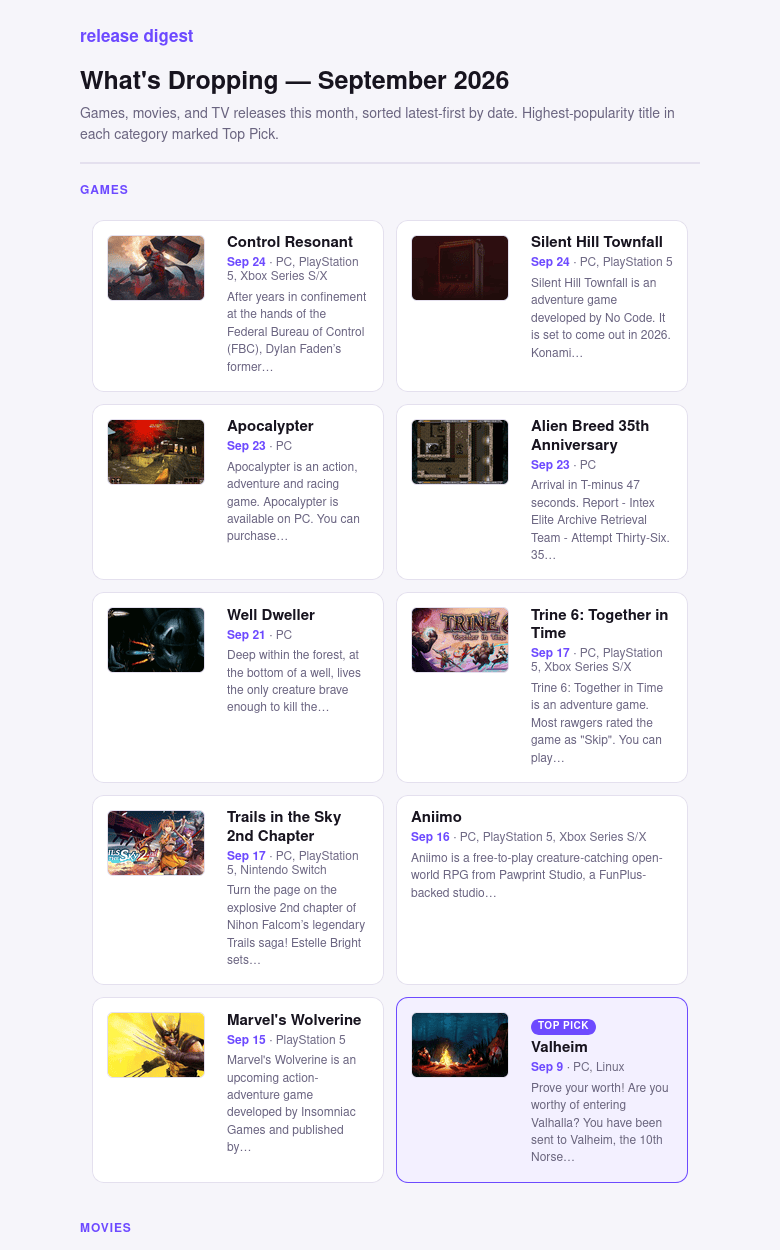
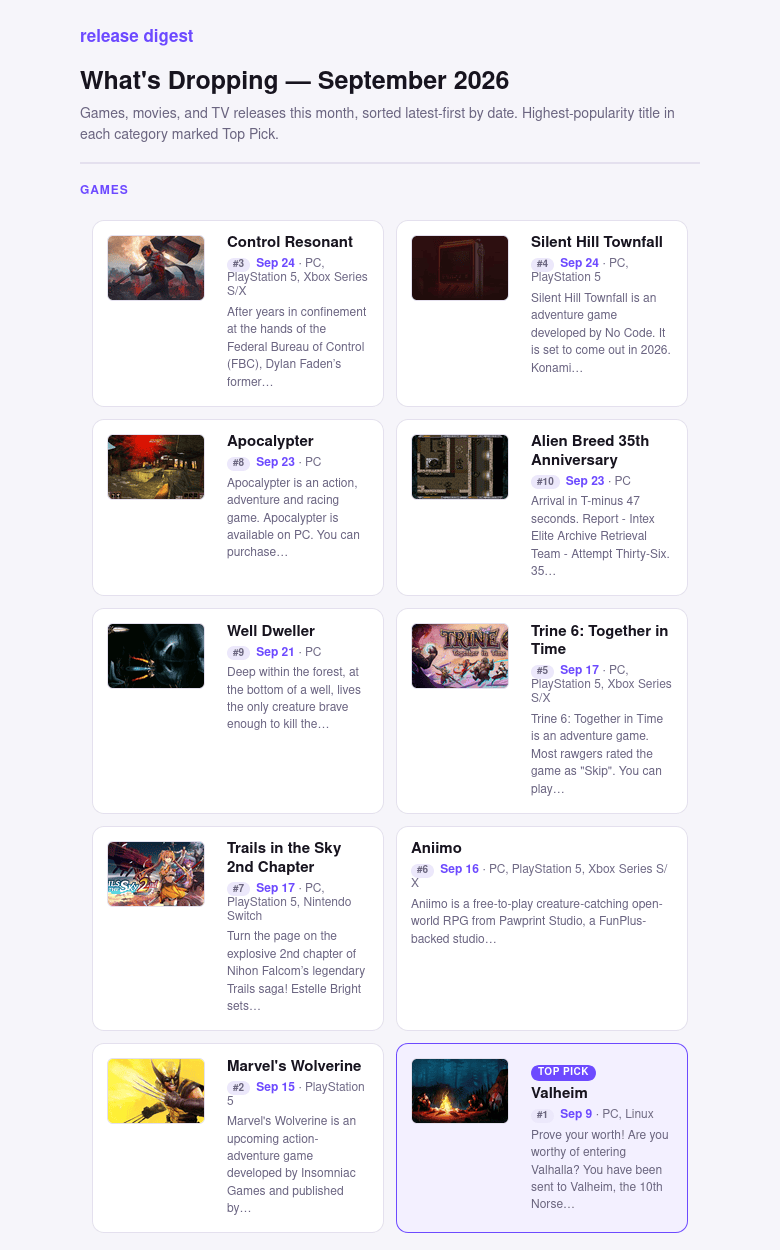
Badge each card with its popularity rank
Cards are ordered by release date, which makes it hard to see which of a
month's ten titles are actually notable. Each now carries its rank within its
category, so the Top Pick is #1 and the rest are placed relative to it.

Shown as a rank rather than the underlying figure on purpose: RAWG's `added` is
a count of users who added the game, TMDB's `popularity` an opaque float that
changes daily. Printing both would invite a comparison that means nothing — a
game at 4,981 beside a film at 230 is not twenty times more popular. The rank is
comparable across sections and needs no explaining.

Badge contrast is 4.67:1 on its tint and 5.60:1 if a client strips the
background, so it degrades upward rather than disappearing.

diff --git a/render_digest.py b/render_digest.py
@@ -114,10 +114,22 @@ def card_html(item: dict, category: str, cid_map: dict[str, str] | None = None) 
         if url else title
     )
 
+    # Popularity as a within-category rank, not a raw figure: RAWG's `added` is
+    # a user count and TMDB's `popularity` an opaque float, so the underlying
+    # numbers aren't comparable between sections. Cards are ordered by date, so
+    # the rank is what surfaces the notable ones.
+    rank_badge = ""
+    if item.get("popularity_rank"):
+        rank_badge = (
+            f'<span style="display:inline-block;background:#ece8fa;color:{INK_DIM};'
+            f'font-size:10px;font-weight:700;padding:1px 6px;border-radius:999px;'
+            f'font-family:{FONT};margin-right:6px;">#{item["popularity_rank"]}</span>'
+        )
+
     text_cell = f"""<td valign="top" style="padding:0;">
       {pill}<div style="font-weight:600;font-size:15px;line-height:1.25;color:{INK};font-family:{FONT};">{linked_title}</div>
-      <div style="font-size:12px;color:{INK_FAINT};font-family:{FONT};margin-top:3px;">
-        <span style="color:{ACCENT};font-weight:600;">{date}</span>{meta_extra}
+      <div style="font-size:12px;color:{INK_FAINT};font-family:{FONT};margin-top:4px;">
+        {rank_badge}<span style="color:{ACCENT};font-weight:600;">{date}</span>{meta_extra}
       </div>
       {blurb}
     </td>"""

diff --git a/fetch_releases.py b/fetch_releases.py
@@ -334,6 +334,14 @@ def rank(items: list[dict], cap: int = 10) -> list[dict]:
         capped.sort(key=lambda i: i["release_date"], reverse=True)
     for item in capped:
         item["top_pick"] = item is top
+
+    # Rank within the category, most popular first. The cards are ordered by
+    # date, so this is what lets a reader spot the notable ones at a glance.
+    # Deliberately a rank and not the raw score: RAWG's `added` is a user count
+    # while TMDB's `popularity` is an opaque daily-changing float, so the two
+    # are meaningless to compare directly.
+    for position, item in enumerate(sorted(capped, key=lambda i: i["popularity"], reverse=True), start=1):
+        item["popularity_rank"] = position
     return capped
 
 

diff --git a/README.md b/README.md
@@ -19,8 +19,8 @@ No inbound port, no database. The container runs in either of two modes:
 ## What it does
 
 1. **Fetch** — pulls the target month's releases from RAWG (games) and TMDB (movies + TV).
-2. **Rank** — sorts each category latest-first by release date, and flags the single
-   highest-popularity title per category as **Top Pick**.
+2. **Rank** — sorts each category latest-first by release date, badges each card with its
+   popularity rank within that category, and flags the top one as **Top Pick**.
 3. **Render** — builds an email-safe HTML digest.
 4. **Send** — emails it over Gmail SMTP with every poster embedded as an inline attachment.
 
@@ -111,6 +111,11 @@ and are worth knowing before "simplifying" them:
   entry from turning the sender into an SSRF vector.
 - **Image type is sniffed from magic bytes**, not the `Content-Type` header, because TMDB
   sometimes omits the header and valid posters would otherwise be dropped.
+- **Popularity shows as a rank, not a raw score.** RAWG's `added` is a count of users who
+  added the game; TMDB's `popularity` is an opaque float that changes daily. Printing both
+  would invite a comparison that means nothing — a game at 4,981 against a film at 230 is
+  not 20x more popular. A per-category rank is comparable and answers the question a
+  reader actually has, given the cards are ordered by date rather than by popularity.
 
 ## Layout
 
